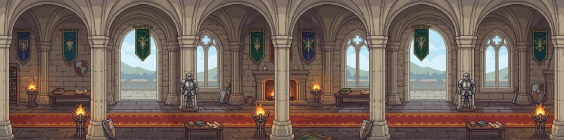
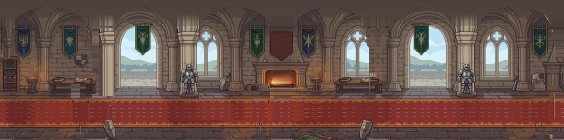
城堡大廳 bg_09/fg_09 第一版:前景拱廊+補後景+火焰參數 fx_09.json
Claude-Session: https://claude.ai/code/session_01VgWDma9wRVh94nUCbzKnsT

diff --git a/assets/battle/readme.md b/assets/battle/readme.md
@@ -7,7 +7,7 @@
 
 - `sky_mask_03.png`:沙漠的天空範圍(不透明處=天空)。飄動的雲只畫在這個範圍內,所以會躲在金字塔後面;雲不要低於地平線。
 - `clouds.json`:雲的形狀(4 朵,取自沙漠原圖)與各主題色盤(day 白雲 / dusk 粉雲)。森林用 day 色盤,沙漠用 dusk 色盤。
-- 暫存(只有背景,尚未切前景/調站位,之後逐張修):`bg_08`(魔王城,564×140)、`bg_09`(城堡大廳,564×140)。
+- 暫存(只有背景,尚未切前景/調站位,之後逐張修):`bg_08`(魔王城,564×140)。
 - `bg_04` + `fg_04`(熔岩,564×140)已完成:上方裁掉 12 格、道路拉長,前景含底部黑石、岩尖、植物。特效參數(動態煙、火泡、火星)在 `fx_04.json`;原圖的煙保留,特效疊在上面。
 - `bg_05` + `fg_05`(冰原,564×140)已完成:上方裁掉 10 格、道路拉長,原圖的雲已削掉,改用 `clouds.json` 的雲在天空飄(`sky_mask_05.png` 讓雲躲在山後面),前景為底部雪岩與樹樁。飄雪參數在 `fx_05.json`。
 - `fx_02.json`:洞窟(bg_02)的發光物光暈參數(背景 5 處、前景 2 處,前景光暈疊在 fg_02 上面)。
@@ -17,3 +17,5 @@
 - 怪物 `monsters/skeleton_soldier*`:骷髏士兵(40×40,已翻轉面向左,睜眼/閉眼兩張 + json 參數:膝蓋以上起伏、眨眼週期、陰影)。陰影統一上移 2 格,出場時陰影跟著怪物。
 
 - 王座廳(bg_07):已完成,紅毯拉高、不切前景;fx_07.json=蠟燭/火盆會晃動的火焰(程式畫)、石像鬼紅眼微光、綠色光暈。暫存剩 bg_08、bg_09。
+
+- 城堡大廳(bg_09):第一版完成,前景拱廊 fg_09(5 柱+圓拱+書桌+篝火架)+補好的後景;fx_09.json=火焰/光暈/補圖說明與待修清單。暫存剩 bg_08。
